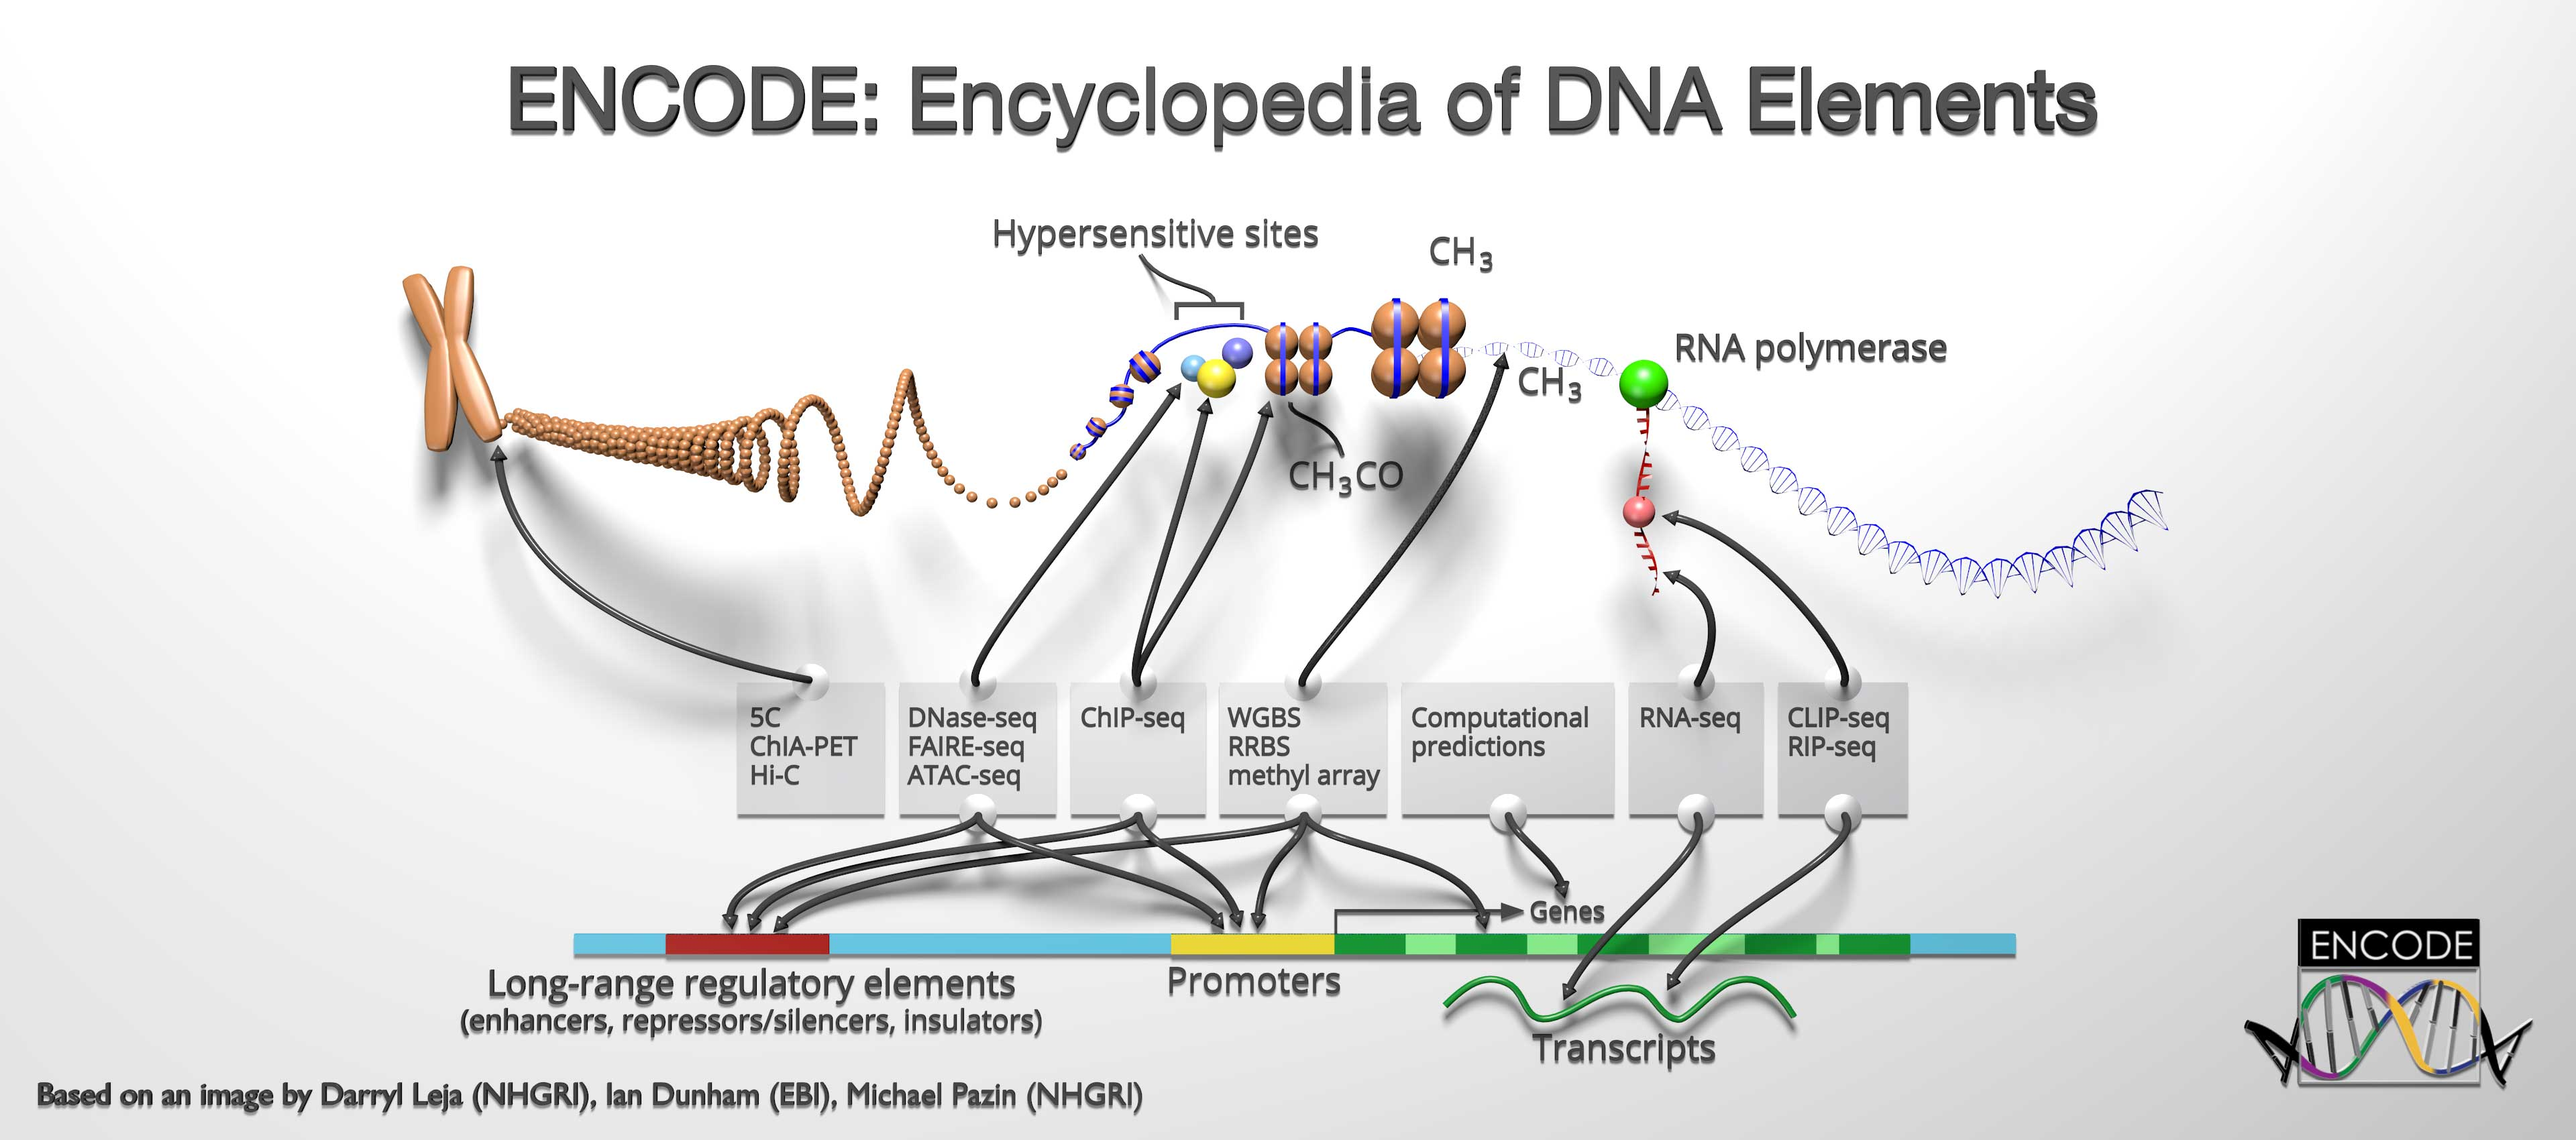
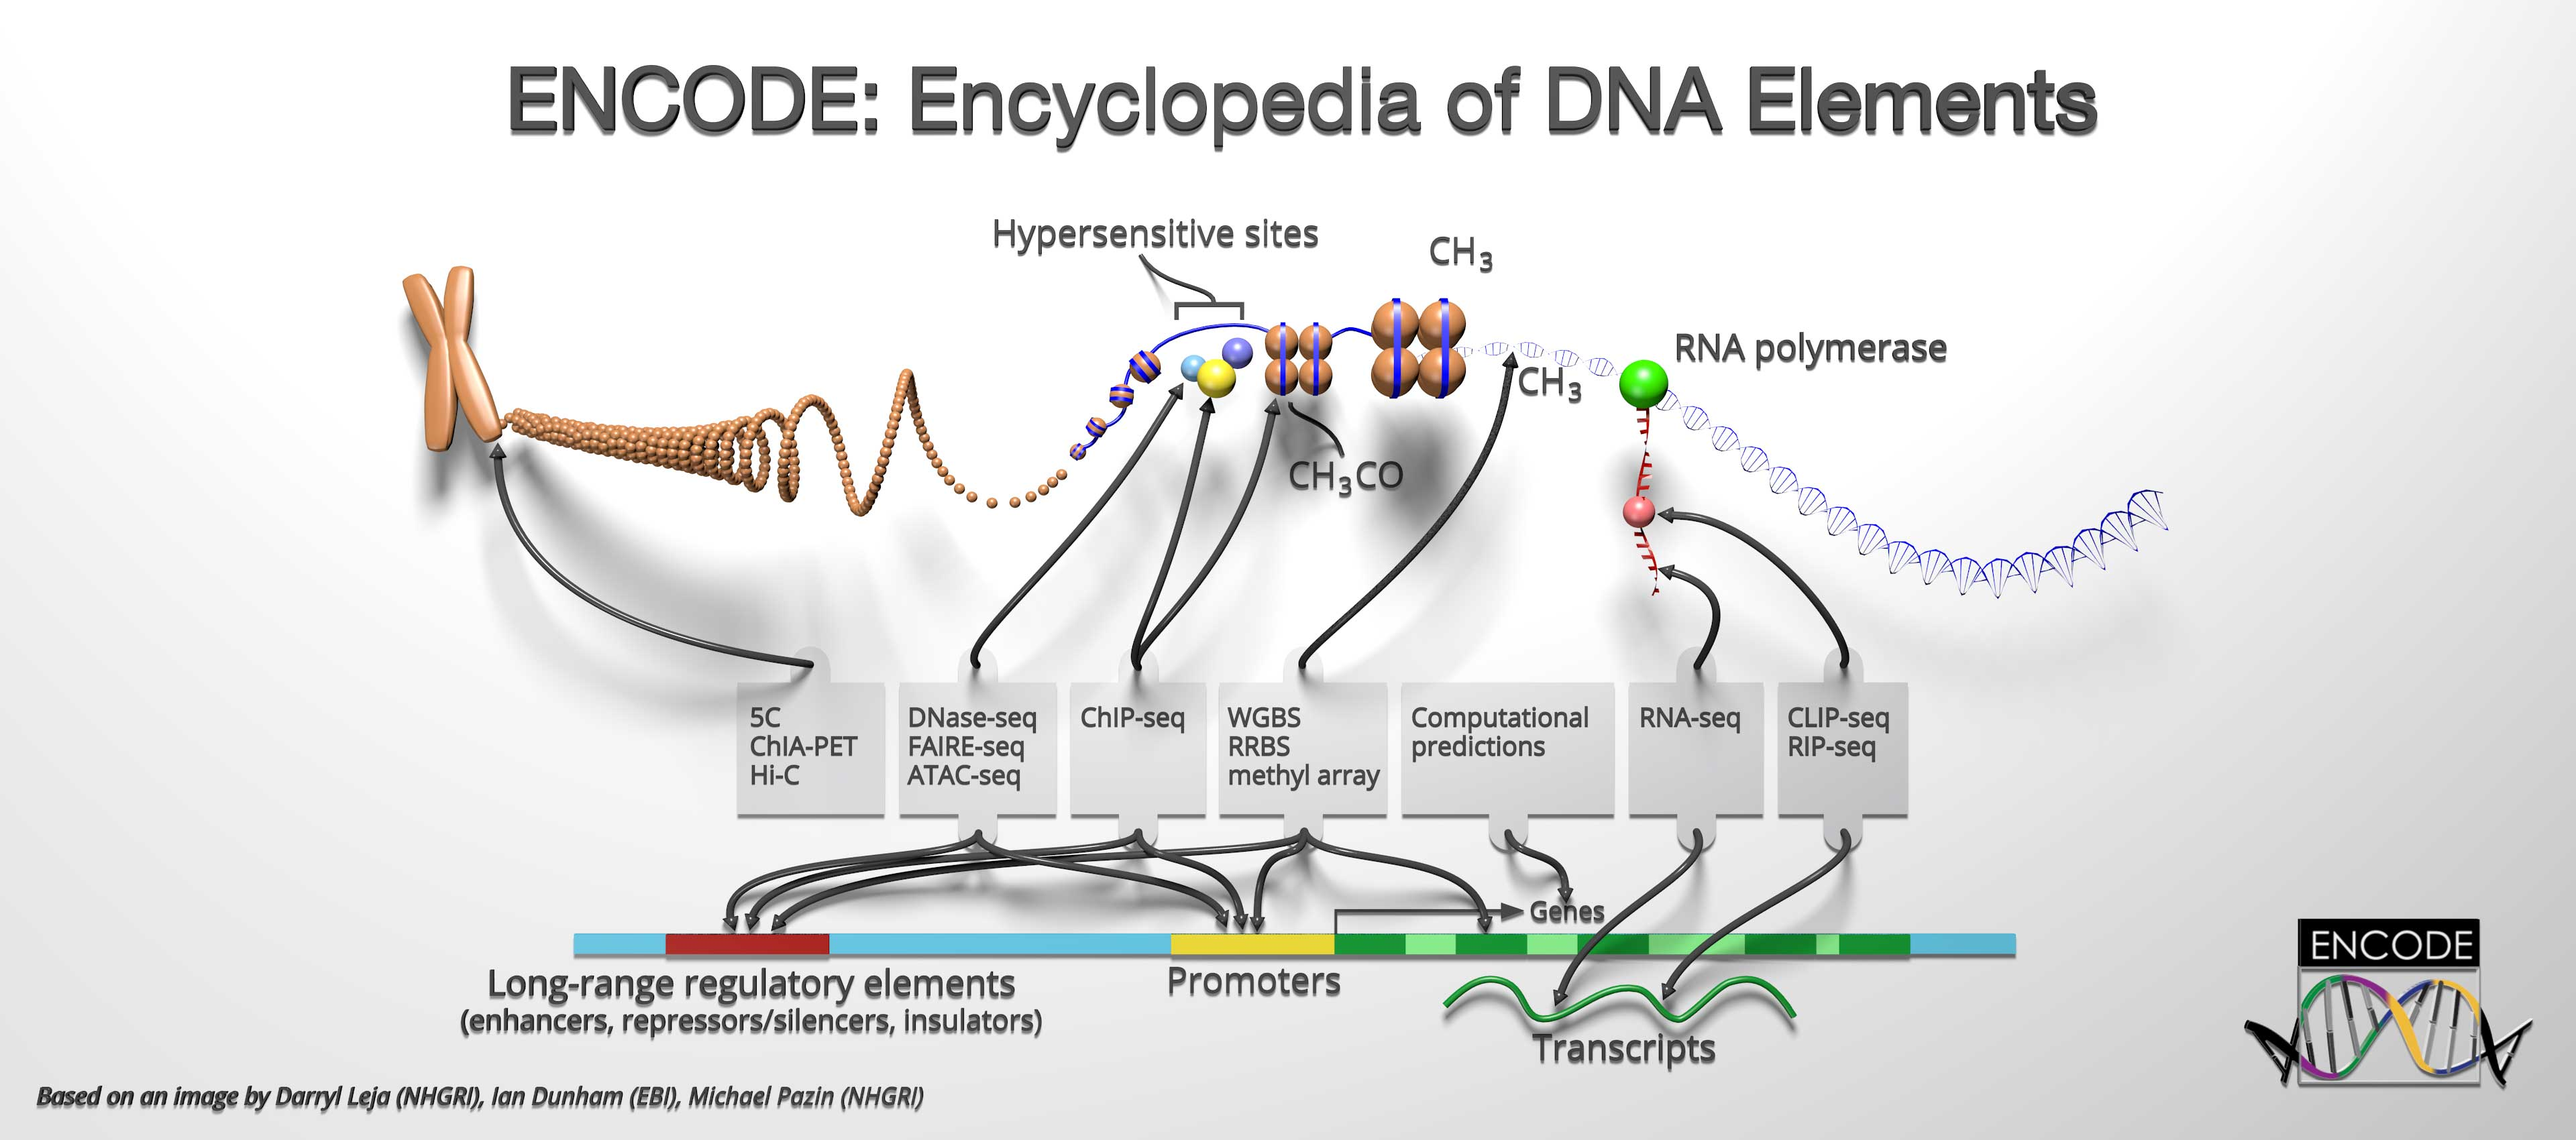
Many small updates
Includes an updated classic image with the button connectors moved outside the blue rectangles.

diff --git a/src/encoded/static/components/home.js b/src/encoded/static/components/home.js
@@ -142,7 +142,7 @@ var Home = module.exports.Home = React.createClass({
                             <PanelHeading addClasses="tab-table-header">
                                 <TabClicking handleTabClick={this.handleTabClick} newtabs={this.state.newtabs}/>
                             </PanelHeading>
-                            <div className="graphs clearfix" >
+                            <div className="graphs clearfix">
                                 <div className="row">
                                     <HomepageChartLoader searchBase={this.state.current} callback={this.callback} />
                                 </div>
@@ -390,6 +390,11 @@ var HomepageChart = React.createClass({
 
             // Our data source will be different for computational predictions
             var computationalPredictions = this.props.searchBase === '?type=Annotation&encyclopedia_version=3';
+
+            // Handle cancelled GET request. We'll have made another GET request.
+            if (this.props.data.status === 'error') {
+                return;
+            }
 
             var facets = this.props.data.facets;
             var assayFacet = facets.find(facet => facet.field === 'award.project');

diff --git a/src/encoded/static/components/matrix.js b/src/encoded/static/components/matrix.js
@@ -115,7 +115,7 @@ var Matrix = module.exports.Matrix = React.createClass({
             }
 
             // Make an array of colors corresponding to the ordering of biosample_type
-            var biosampleTypeColors = this.context.biosampleTypeColors.colorList(y_groups.map(y_group => y_group.key), {shade: 50});
+            var biosampleTypeColors = this.context.biosampleTypeColors.colorList(y_groups.map(y_group => y_group.key), {shade: 40});
 
             return (
                 <div>

diff --git a/src/encoded/static/components/app.js b/src/encoded/static/components/app.js
@@ -65,8 +65,7 @@ const biosampleTypeList = [
     'whole organisms',
     'stem cell',
     'in vitro differentiated cells',
-    'induced pluripotent stem cell line',
-    'secondary cell'
+    'induced pluripotent stem cell line'
 ];
 
 

diff --git a/src/encoded/static/scss/encoded/modules/_home.scss b/src/encoded/static/scss/encoded/modules/_home.scss
@@ -44,6 +44,7 @@
 
 
 .twitter-widget {
+    padding-right: 20px;
     border-left: 1px solid #a0a0a0;
 }
 
